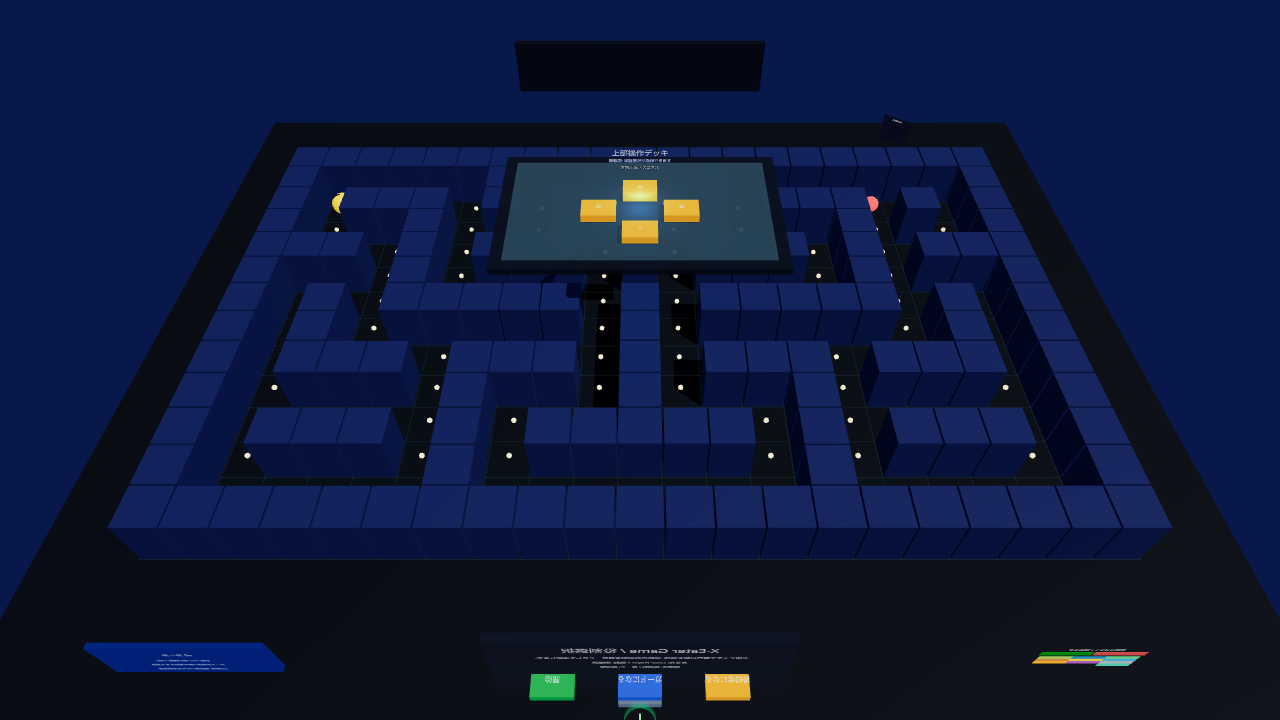
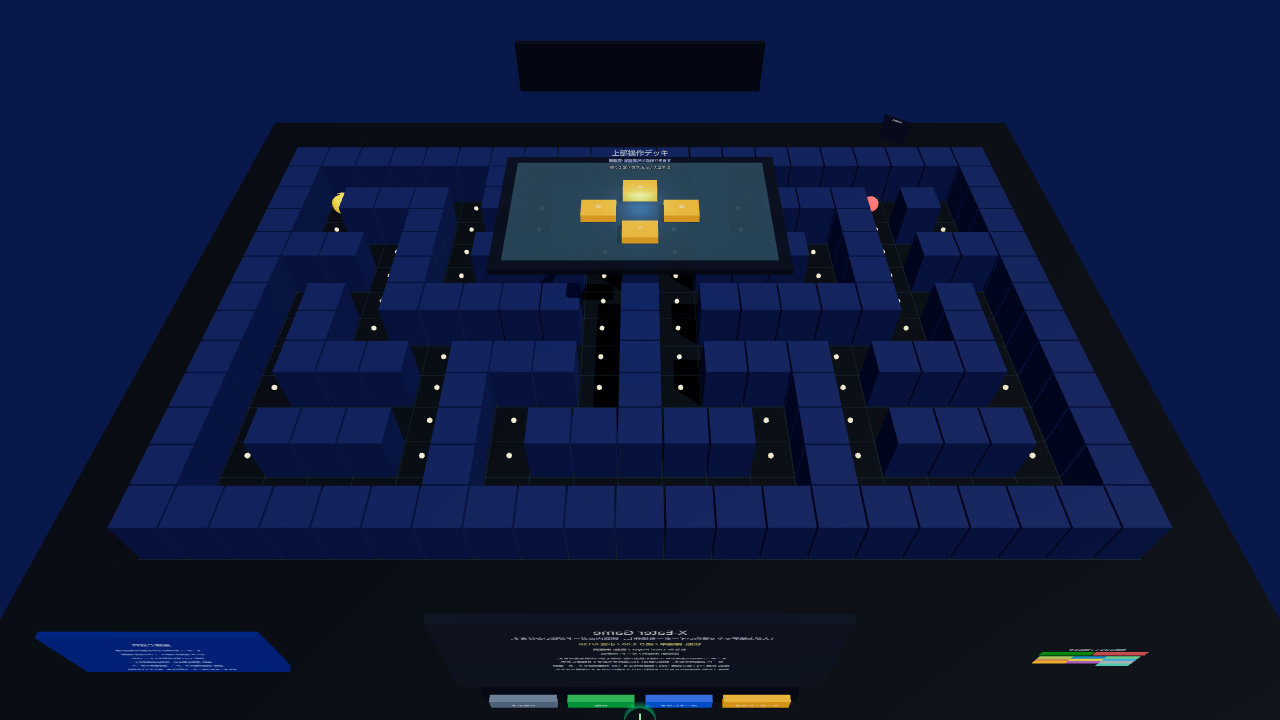
Improve X-Eater entrance guidance

Changed region(s): [[0.375, 0.8556, 0.625, 1.0], [0.0312, 0.8556, 0.2188, 0.9472]]

diff --git a/src/World.tsx b/src/World.tsx
@@ -12,7 +12,7 @@ import {
   type PlayerMovement,
   type User,
 } from '@xrift/world-components'
-import { useCallback, useEffect, useMemo, useRef } from 'react'
+import { useCallback, useEffect, useMemo, useRef, useState } from 'react'
 
 export interface WorldProps {
   position?: [number, number, number]
@@ -190,6 +190,12 @@ function countCollectedPellets(pellets: Record<string, boolean>) {
   return Object.values(pellets).filter(Boolean).length
 }
 
+function formatTime(seconds: number) {
+  const minutes = Math.floor(seconds / 60)
+  const rest = Math.max(0, seconds % 60)
+  return `${minutes}:${rest.toString().padStart(2, '0')}`
+}
+
 function SkyDome() {
   return (
     <group>
@@ -300,12 +306,42 @@ function ControlButton({
   )
 }
 
+function WallButton({
+  id,
+  label,
+  position,
+  color,
+  onInteract,
+}: {
+  id: string
+  label: string
+  position: [number, number, number]
+  color: string
+  onInteract: () => void
+}) {
+  return (
+    <Interactable id={id} interactionText={label} onInteract={onInteract} type="button">
+      <group position={position}>
+        <mesh castShadow>
+          <boxGeometry args={[2.15, 0.58, 0.22]} />
+          <meshStandardMaterial color={color} emissive={color} emissiveIntensity={0.18} roughness={0.48} />
+        </mesh>
+        <Text position={[0, 0.02, -0.14]} fontSize={0.2} color="#ffffff" anchorX="center" anchorY="middle">
+          {label}
+        </Text>
+      </group>
+    </Interactable>
+  )
+}
+
 function RoleBoard({
   state,
   localUserId,
   localName,
   pacName,
   monsterNames,
+  remainingSec,
+  collectedPellets,
   onSelectPac,
   onJoinMonster,
   onStart,
@@ -316,6 +352,8 @@ function RoleBoard({
   localName: string
   pacName: string
   monsterNames: string[]
+  remainingSec: number
+  collectedPellets: number
   onSelectPac: () => void
   onJoinMonster: () => void
   onStart: () => void
@@ -326,29 +364,55 @@ function RoleBoard({
     : state.monsterIds.includes(localUserId)
       ? 'ガード'
       : '未選択'
+  const modeText = state.mode === 'playing'
+    ? '進行中'
+    : state.mode === 'result'
+      ? state.winner === 'eater'
+        ? 'イーター勝利'
+        : 'ガード勝利'
+      : '待機中'
 
   return (
-    <group position={[0, 2.2, 16.3]} rotation={[0, Math.PI, 0]}>
+    <group position={[0, 3.0, 16.3]} rotation={[0, Math.PI, 0]}>
       <mesh>
-        <boxGeometry args={[9.5, 4.2, 0.28]} />
+        <boxGeometry args={[12.2, 5.4, 0.28]} />
         <meshStandardMaterial color="#111827" emissive="#1e293b" emissiveIntensity={0.3} />
       </mesh>
-      <Text position={[0, 1.55, -0.2]} fontSize={0.42} color="#f8fafc" anchorX="center">
-        X-Eater Game / 役割選択
+      <Text position={[0, 2.18, -0.2]} fontSize={0.42} color="#f8fafc" anchorX="center">
+        X-Eater Game
       </Text>
-      <Text position={[0, 1.0, -0.2]} fontSize={0.2} color="#c7d2fe" anchorX="center">
-        上部デッキで黄色い駒を操作。迷路内の参加者はガードとして追跡します。
+      <Text position={[0, 1.72, -0.2]} fontSize={0.22} color="#c7d2fe" anchorX="center">
+        1人が上部デッキで黄色いイーターを操作し、迷路内のガードが追いかけます。
       </Text>
-      <Text position={[0, 0.56, -0.2]} fontSize={0.19} color="#fef3c7" anchorX="center">
+      <Text position={[0, 1.28, -0.2]} fontSize={0.22} color="#fde047" anchorX="center">
+        {`状態: ${modeText} / 残り ${formatTime(remainingSec)} / 小粒 ${collectedPellets}/${PELLET_COUNT}`}
+      </Text>
+      <Text position={[0, 0.86, -0.2]} fontSize={0.18} color="#fef3c7" anchorX="center">
         {`あなた: ${localName} / 役割: ${localRole}`}
       </Text>
-      <Text position={[0, 0.18, -0.2]} fontSize={0.18} color="#bbf7d0" anchorX="center">
+      <Text position={[0, 0.52, -0.2]} fontSize={0.17} color="#bbf7d0" anchorX="center">
         {`操縦者: ${pacName} / ガード: ${monsterNames.length ? monsterNames.join(', ') : '未参加'}`}
       </Text>
-      <ControlButton id="select-eater" label="操縦者になる" position={[-2.8, -0.8, -0.36]} color="#f59e0b" onInteract={onSelectPac} />
-      <ControlButton id="select-guard" label="ガードになる" position={[0, -0.8, -0.36]} color="#2563eb" onInteract={onJoinMonster} />
-      <ControlButton id="start-round" label="開始" position={[2.8, -0.8, -0.36]} color="#16a34a" onInteract={onStart} />
-      <ControlButton id="reset-round" label="リセット" position={[0, -1.5, -0.36]} color="#64748b" onInteract={onReset} />
+      <Text position={[0, 0.14, -0.2]} fontSize={0.16} color="#e0f2fe" anchorX="center">
+        イーター: WASD/方向ボタンで進む黄色い駒。小粒と赤い大粒を集めます。
+      </Text>
+      <Text position={[0, -0.18, -0.2]} fontSize={0.16} color="#e0f2fe" anchorX="center">
+        ガード: 迷路内を歩き、黄色い駒に1.15m以内まで近づくと捕獲します。
+      </Text>
+      <Text position={[0, -0.5, -0.2]} fontSize={0.16} color="#e0f2fe" anchorX="center">
+        得点: 小粒 +10 / 赤い大粒 +200 / 捕獲されると -100。全粒回収でイーター勝利。
+      </Text>
+      <Text position={[0, -0.82, -0.2]} fontSize={0.16} color="#e0f2fe" anchorX="center">
+        時間: 120秒。時間切れならガード勝利。ラウンド後はリセットで再戦できます。
+      </Text>
+      <mesh position={[0, -2.1, -0.58]} castShadow>
+        <boxGeometry args={[10.2, 0.86, 0.18]} />
+        <meshStandardMaterial color="#020617" emissive="#0f172a" emissiveIntensity={0.32} />
+      </mesh>
+      <WallButton id="select-eater" label="イーターになる" position={[-3.75, -2.1, -0.78]} color="#f59e0b" onInteract={onSelectPac} />
+      <WallButton id="select-guard" label="ガードになる" position={[-1.25, -2.1, -0.78]} color="#2563eb" onInteract={onJoinMonster} />
+      <WallButton id="start-round" label="開始" position={[1.25, -2.1, -0.78]} color="#16a34a" onInteract={onStart} />
+      <WallButton id="reset-round" label="リセット" position={[3.75, -2.1, -0.78]} color="#64748b" onInteract={onReset} />
     </group>
   )
 }
@@ -356,10 +420,12 @@ function RoleBoard({
 function PilotDeck({
   state,
   isPacController,
+  remainingSec,
   onDirection,
 }: {
   state: XState
   isPacController: boolean
+  remainingSec: number
   onDirection: (direction: Direction) => void
 }) {
   const enabledText = isPacController ? '操作中: ボタンまたはWASD' : '観戦席: 操縦者だけ操作できます'
@@ -383,7 +449,7 @@ function PilotDeck({
         {enabledText}
       </Text>
       <Text position={[0, 0.28, -2.6]} fontSize={0.18} color="#fde68a" anchorX="center">
-        {`方向: ${state.pacDirection} / スコア: ${state.score}`}
+        {`残り ${formatTime(remainingSec)} / 方向: ${state.pacDirection} / スコア: ${state.score}`}
       </Text>
       <ControlButton id="pac-up" label="上" position={[0, 0.35, -0.9]} color="#f59e0b" onInteract={() => onDirection('up')} />
       <ControlButton id="pac-left" label="左" position={[-1.65, 0.35, 0.4]} color="#f59e0b" onInteract={() => onDirection('left')} />
@@ -403,12 +469,12 @@ function Scoreboard({
   collectedPellets: number
 }) {
   const status = state.mode === 'playing'
-    ? 'PLAYING'
+    ? '進行中'
     : state.mode === 'result'
       ? state.winner === 'eater'
-        ? 'EATER CLEAR'
-        : 'GUARDS WIN'
-      : 'LOBBY'
+        ? 'イーター勝利'
+        : 'ガード勝利'
+      : '待機中'
 
   return (
     <group position={[0, 5.2, -15.2]}>
@@ -420,7 +486,7 @@ function Scoreboard({
         {`X-EATER SCORE / ${status}`}
       </Text>
       <Text position={[0, 0.22, -0.24]} fontSize={0.28} color="#fde047" anchorX="center">
-        {`SCORE ${state.score}  TIME ${remainingSec}s  PELLETS ${collectedPellets}/${PELLET_COUNT}`}
+        {`SCORE ${state.score}  TIMER ${formatTime(remainingSec)}  PELLETS ${collectedPellets}/${PELLET_COUNT}`}
       </Text>
       <Text position={[0, -0.42, -0.24]} fontSize={0.24} color="#fca5a5" anchorX="center">
         {`CATCH ${state.catches}  CHERRY ${state.cherry.collected ? 'GET' : 'LIVE'}  GUARDS ${state.monsterIds.length}`}
@@ -431,22 +497,31 @@ function Scoreboard({
 
 function Legend() {
   return (
-    <group position={[-14.8, 1.5, 15.9]} rotation={[0, Math.PI, 0]}>
+    <group position={[-15.2, 1.95, 15.9]} rotation={[0, Math.PI, 0]}>
       <mesh>
-        <boxGeometry args={[5.6, 2.1, 0.2]} />
+        <boxGeometry args={[6.8, 3.0, 0.2]} />
         <meshStandardMaterial color="#172554" emissive="#1d4ed8" emissiveIntensity={0.18} />
       </mesh>
-      <Text position={[0, 0.66, -0.16]} fontSize={0.22} color="#ffffff" anchorX="center">
-        v0 ルール
+      <Text position={[0, 1.08, -0.16]} fontSize={0.24} color="#ffffff" anchorX="center">
+        用語と流れ
       </Text>
-      <Text position={[0, 0.18, -0.16]} fontSize={0.15} color="#dbeafe" anchorX="center">
-        小粒 +10 / 赤い大粒 +200
+      <Text position={[0, 0.62, -0.16]} fontSize={0.145} color="#dbeafe" anchorX="center">
+        イーター: 上のデッキから動かす黄色い駒
       </Text>
-      <Text position={[0, -0.18, -0.16]} fontSize={0.15} color="#dbeafe" anchorX="center">
-        ガードが黄色い駒へ接近すると捕獲
+      <Text position={[0, 0.28, -0.16]} fontSize={0.145} color="#dbeafe" anchorX="center">
+        ガード: 迷路内で追い、1.15m以内で捕獲
       </Text>
-      <Text position={[0, -0.54, -0.16]} fontSize={0.15} color="#dbeafe" anchorX="center">
-        120秒制。役割はいつでも交代可能
+      <Text position={[0, -0.06, -0.16]} fontSize={0.145} color="#dbeafe" anchorX="center">
+        小粒: +10 / 赤い大粒チェリー: +200
+      </Text>
+      <Text position={[0, -0.4, -0.16]} fontSize={0.145} color="#dbeafe" anchorX="center">
+        開始: 役割を選んで、中央の開始ボタン
+      </Text>
+      <Text position={[0, -0.74, -0.16]} fontSize={0.145} color="#dbeafe" anchorX="center">
+        勝利: 全粒回収でイーター、時間切れでガード
+      </Text>
+      <Text position={[0, -1.08, -0.16]} fontSize={0.145} color="#fef3c7" anchorX="center">
+        タイマーは入口ボード・上部デッキ・頭上スコアに表示
       </Text>
     </group>
   )
@@ -512,11 +587,11 @@ export function World({ position = [0, 0, 0], scale = 1 }: WorldProps) {
   const localUserId = localEffectiveUser.id
   const lastStepAtRef = useRef(0)
   const lastCatchCheckAtRef = useRef(0)
+  const [nowMs, setNowMs] = useState(() => Date.now())
   const isPacController = state.pacControllerId === localUserId
   const collectedPellets = countCollectedPellets(state.pellets)
-  const now = Date.now()
   const remainingSec = state.mode === 'playing' && state.roundStartedAt
-    ? Math.max(0, Math.ceil((state.roundStartedAt + state.roundDurationSec * 1000 - now) / 1000))
+    ? Math.max(0, Math.ceil((state.roundStartedAt + state.roundDurationSec * 1000 - nowMs) / 1000))
     : state.roundDurationSec
 
   const users = useMemo(() => [localEffectiveUser, ...remoteUsers], [localEffectiveUser, remoteUsers])
@@ -525,6 +600,40 @@ export function World({ position = [0, 0, 0], scale = 1 }: WorldProps) {
     ? getDisplayName(userById.get(state.pacControllerId), '操縦者')
     : '未選択'
   const monsterNames = state.monsterIds.map((id) => getDisplayName(userById.get(id), 'ガード'))
+
+  useEffect(() => {
+    if (state.mode !== 'playing') {
+      setNowMs(Date.now())
+      return undefined
+    }
+
+    const intervalId = window.setInterval(() => {
+      setNowMs(Date.now())
+    }, 250)
+
+    return () => window.clearInterval(intervalId)
+  }, [state.mode])
+
+  useEffect(() => {
+    if (state.mode !== 'playing' || state.roundStartedAt === null) {
+      return
+    }
+
+    if (nowMs < state.roundStartedAt + state.roundDurationSec * 1000) {
+      return
+    }
+
+    setState((current) => {
+      if (current.mode !== 'playing') return current
+
+      return {
+        ...current,
+        mode: 'result',
+        winner: 'guards',
+        pacDirection: 'idle',
+      }
+    })
+  }, [nowMs, setState, state.mode, state.roundDurationSec, state.roundStartedAt])
 
   const setDirection = useCallback(
     (direction: Direction) => {
@@ -699,7 +808,7 @@ export function World({ position = [0, 0, 0], scale = 1 }: WorldProps) {
       ))}
       <Cherry state={state.cherry} />
       <EaterPiece cell={state.pacCell} direction={state.pacDirection} />
-      <PilotDeck state={state} isPacController={isPacController} onDirection={setDirection} />
+      <PilotDeck state={state} isPacController={isPacController} remainingSec={remainingSec} onDirection={setDirection} />
       <Scoreboard state={state} remainingSec={remainingSec} collectedPellets={collectedPellets} />
       <RoleBoard
         state={state}
@@ -707,6 +816,8 @@ export function World({ position = [0, 0, 0], scale = 1 }: WorldProps) {
         localName={getDisplayName(localEffectiveUser, 'あなた')}
         pacName={pacName}
         monsterNames={monsterNames}
+        remainingSec={remainingSec}
+        collectedPellets={collectedPellets}
         onSelectPac={selectPac}
         onJoinMonster={joinMonster}
         onStart={startRound}
